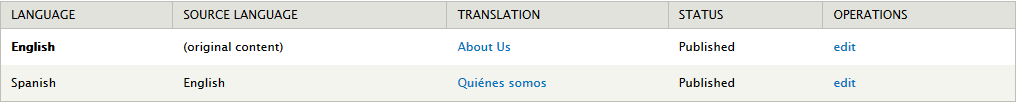
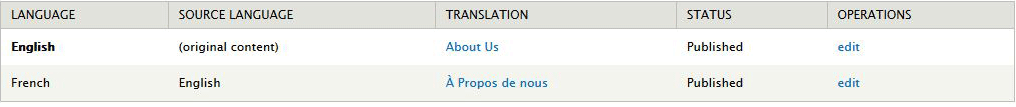
updates

diff --git a/sites/all/themes/pacechem/css/pacechem.css b/sites/all/themes/pacechem/css/pacechem.css
@@ -10,11 +10,12 @@ body{ color:#3c3c3c; font-size:62.5%; background:url(../images/tile_bg.png) cent
 #main > .inner{ padding-top:37px}
 #content{ padding:0 0 70px}
 .content_two #content,
-.content_two.content_three #content_two{ padding-bottom:25px}
-#content_two, #content_three{ padding:25px 0}
-#content_two{ background:rgba(224,224,224,0.4)}
+.content_two.content_three #content_two,
+.content_two.content_three.content_four #content_three{ padding-bottom:25px}
+#content_two, #content_three, #content_four{ padding:25px 0}
+#content_two, #content_four{ background:rgba(224,224,224,0.4)}
 .content_two #content_two,
-#content_three{ padding-bottom:70px}
+#content_three, #content_four{ padding-bottom:70px}
 
 .one-sidebar.sidebar-first #content{ float:right; width:62%; }
 .one-sidebar.sidebar-first .region-sidebar-first{ float:left; width:37%; margin-top:5px }
@@ -43,9 +44,9 @@ body{ color:#3c3c3c; font-size:62.5%; background:url(../images/tile_bg.png) cent
 #language_toggle ul, #language_toggle li{ margin:0; padding:0; list-style:none; font-size:1em; line-height:40px}
 #language_toggle ul li a{ font-size:1.8em; text-decoration:none; position:relative; display:block; color:#fff; padding-right:27px; }
 #language_toggle ul li a:hover{ color:#3f9cda}
-#language_toggle ul li a:after{ display:block; content:''; position:absolute; top:0; right:0; background:url(../images/sprite.png); width:18px; height:20px; top:14px; }
+#language_toggle ul li a:after{ display:block; content:''; position:absolute; top:0; right:0; background:url(../images/sprite.png); width:18px; height:14px; top:14px; }
 #language_toggle ul li.fr a:after{ background-position:-80px 0; }
-#language_toggle ul li.en a:after{ background-position:-80px -20px; }
+#language_toggle ul li.en a:after{ background-position:-80px -40px; }
 .i18n-en #language_toggle ul li.en,
 .i18n-fr #language_toggle ul li.fr{ display:none}
 
@@ -67,7 +68,7 @@ body{ color:#3c3c3c; font-size:62.5%; background:url(../images/tile_bg.png) cent
 .forgot-open #forgot-password{ top:0; opacity:1}
 .login h2{ font-size:2.2em; margin:0 0 15px; line-height:1}
 .login p{ font-family:'helvmc'; font-size:1.5em; line-height:1.3em; margin-bottom:20px}
-.login a:hover{ color:#c81e1e; text-decoration:underline}
+.login a:hover{ color:#3F9CDA; text-decoration:underline}
 .login .form-item{ margin:0 0 8px}
 .login .form-item.form-type-password,
 #fogot-password .form-item.form-type-textfield{ margin-bottom:15px}
@@ -91,6 +92,7 @@ body{ color:#3c3c3c; font-size:62.5%; background:url(../images/tile_bg.png) cent
 .contact-details, .address-details{ font-family:'helvmc'}
 .contact-details p{ font-size:1.55em}
 .contact-details .label{ width:65px; display:inline-block}
+.i18n-fr .contact-details .label{ width:83px}
 #header .contact-details{ position:absolute; right:0; color:#787878; margin-top:25px}
 
 #header-image{ background:#1e1e1e center 0; background-size:cover; }
@@ -146,7 +148,7 @@ body{ color:#3c3c3c; font-size:62.5%; background:url(../images/tile_bg.png) cent
 .sidebar ul.menu{font-family:'helvbdc'; font-size:2.2em; line-height:1}
 .sidebar ul.menu li{ margin-bottom:20px}
 .sidebar ul.menu li a{ color:#010101; text-decoration:none}
-.sidebar ul.menu li a:hover{ color:#c81e1e}
+.sidebar ul.menu li a:hover{ color:#3f9cda}
 .sidebar ul.menu li ul{ font-size:.9em; line-height:1.45; margin-top:4px}
 .sidebar ul.menu li ul li{ margin-bottom:0}
 .sidebar ul.menu li ul li a{ color:#787878}
@@ -213,7 +215,8 @@ input, textarea, select{ font-size:1.5em; border-radius:0}
 .form-item label{ margin:0 0 5px; font-size:2em; font-family:'helvbdc'; line-height:1; font-weight:normal}
 .form-item input[type="text"],
 .form-item input[type="password"]{ width:100%; border:none; padding:3px 5px}
-.form-actions input[type="submit"]{ font-family:'helvbdc'; background:none; border:2px solid #a32439; border-radius:5px; padding:2px 15px; font-size:1.8em; cursor:pointer; color:#a32439; }
+.form-actions input[type="submit"]{ font-family:'helvbdc'; background:none; border:2px solid #005b9a; border-radius:5px; padding:2px 15px; font-size:1.8em; cursor:pointer; color:#005b9a; }
+.form-actions input[type="submit"]:hover{ background:#d6e3ed; background:rgba(0,91,154,.15);}
 #main .form-item input[type="text"], 
 #main .form-item input[type="password"]{ border:1px solid #3C3C3C}
 #main fieldset{ border:none}
@@ -268,7 +271,7 @@ ol.search-results li{ margin-left:0; padding-left:0}
 /* BUTTONS
 ----------------------------------*/
 a.btn{ font-family:'helvbdc'; background:none; border:2px solid #005b9a; border-radius:5px; padding:2px 15px; font-size:1.8em; cursor:pointer; color:#005b9a;}
-a.btn:hover{ color:#005b9a; border-color:#005b9a; text-decoration:none}
+a.btn:hover{ color:#005b9a; border-color:#005b9a; background:#d6e3ed; background:rgba(0,91,154,.15); text-decoration:none}
 p a.btn{ font-size:.9em}
 p.btn{ margin-top:30px}
 
@@ -297,8 +300,8 @@ a.download:before{ content:''; display:block; position:absolute; width:40px; hei
 ----------------------------------*/
 #main #search-form{ margin-bottom:30px}
 #main #search-form input[type="text"]{ max-width:400px}
-#main #search-form input[type="submit"]{ font-family:'helvbdc'; background:none; border:2px solid #a32439; border-radius:5px; padding:2px 15px; font-size:1.8em; cursor:pointer; color:#a32439;}
-#main #search-form input[type="submit"]:hover{ color:#4f121c; border-color:#4f121c; text-decoration:none}
+#main #search-form input[type="submit"]{ font-family:'helvbdc'; background:none; border:2px solid #005b9a; border-radius:5px; padding:2px 15px; font-size:1.8em; cursor:pointer; color:#005b9a;}
+#main #search-form input[type="submit"]:hover{ background:#d6e3ed; background:rgba(0,91,154,.15);}
 #main #search-form .container-inline div, 
 #main #search-form .container-inline label{ display:block}
 .search-info{ display:none}
@@ -386,11 +389,12 @@ table.draggable{ margin:10px 0; font-size:2em}
 .node-career a.top{ position:absolute; right:0; top:5px}
 
 
-/* DISTRIBUTORS
+/* LINKS
 ----------------------------------*/
-.node-distributor h3{ margin-bottom:0}
-.node-distributor .field-name-body p:last-child{ margin-bottom:10px}
-.node-distributor .field-name-field-located-in .field-items{ font-family:'helvbdc'}
+.node-link h3{ margin-bottom:8px}
+
+#block-views-links-order-water h2,
+#block-views-links-order-horticulture h2{ font-size:2em; margin:30px 0 0}
 
 
 /* CONTACT
@@ -399,11 +403,13 @@ table.draggable{ margin:10px 0; font-size:2em}
 .node-36 .field-name-body ul li{ padding:0; margin:0; list-style:none}
 
 #block-views-contact-order-industrial h2,
-#block-views-contact-order-horticulture h2{ font-size:2em; margin:30px 0 0}
+#block-views-contact-order-horticulture h2,
+#block-views-contact-order-water h2{ font-size:2em; margin:30px 0 0}
 
 .node-staff-member h3{ font-size:2em; margin-bottom:5px}
 .node-staff-member .field-name-field-position,
-.node-staff-member .field-name-field-email{ font-size:2em}
+.node-staff-member .field-name-field-email,
+.node-staff-member .field-name-field-phone{ font-size:2em}
 .node-staff-member .field-name-field-email{ margin:5px 0 0}
 .node-staff-member .field-name-body ul,
 .node-staff-member .field-name-body ul li{ margin:0; padding:0; list-style:none; line-height:1.2em}

diff --git a/sites/all/themes/pacechem/css/respond.css b/sites/all/themes/pacechem/css/respond.css
@@ -133,7 +133,7 @@
 #language_toggle ul li a{ padding:0; text-indent:-999em }
 #language_toggle ul li a:after{ width:27px; height:18px; top:11px}
 #language_toggle ul li.fr a:after{ background-position:-180px 0; }
-#language_toggle ul li.en a:after{ background-position:-180px -20px; }
+#language_toggle ul li.en a:after{ background-position:-180px -40px; }
 
 #search_toggle{ left:65%}
 #search_toggle a.icon.search{ text-indent:-999em}

diff --git a/sites/all/themes/pacechem/templates/node.tpl.php b/sites/all/themes/pacechem/templates/node.tpl.php
@@ -25,10 +25,9 @@
 <article id="<?php print $id; ?>" class="node-<?php print $node->nid; ?> <?php print $classes; ?> clearfix"<?php print $attributes; ?>>
   
   <?php 
-  if($node->type=='news' || 
-  	 $node->type=='testimonial' || 
+  if($node->type=='news' ||  
 	 $node->type=='client_area_download' || 
-	 $node->type=='distributor' || 
+	 $node->type=='link' || 
 	 $node->type=='staff_member' || 
 	($node->type=='career' && $view_mode == 'teaser')
 	){
@@ -36,10 +35,10 @@
   }
   ?>  
   
-  <?php if ($unpublished || isset($uri[2]) && $uri[1] != 'client-area' && $uri[2] != 'client-area' && $node->type != 'news' && $node->type != 'career' && $node->type != 'client_area_download' ): ?>
+  <?php if ($unpublished || isset($uri[2]) && $uri[1] != 'client-area' && $uri[2] != 'client-area' && $node->type != 'news' && $node->type != 'link' && $node->type != 'career' && $node->type != 'client_area_download' ): ?>
     <header>
       
-      <?php if( (isset($uri[2]) && $uri[1] != 'es') || (isset($uri[3]) && $uri[1] == 'es') || isset($uri[4]) || $node->type == 'client_area_video'): ?>
+      <?php if( (isset($uri[2]) && $uri[1] != 'fr') || (isset($uri[3]) && $uri[1] == 'fr') || isset($uri[4]) || $node->type == 'client_area_video'): ?>
       	<h2><?php print $node->title; ?></h2>
       <?php endif; ?>
 
@@ -58,6 +57,7 @@
 			print render($content['title_field']); ?>
 			<p class="posted"><?php print t('Posted ') . date('F jS, Y', $node->created) ?></p>
             <?php print render($content['body']) ?>
+            <?php print render($content['field_downloads']) ?>
             
         <?php else: ?>
         	<h2><a href="/news#<?php print $id; ?>"><?php print $node->title; ?></a></h2>
@@ -72,8 +72,9 @@
     	<a class="btn top" href="/careers">Back to Listings</a>
     <?php print render($content);
 	
-	// DISTRIBUTOR
-	elseif($node->type == 'distributor'): ?>
+	// LINK
+	elseif($node->type == 'link'): ?>
+    <h3><?php print $node->field_heading[$lang][0]['safe_value']; ?></h3>
     <h3><a rel="external" href="<?php print $node->field_website_url['und'][0]['safe_value']; ?>"><?php print $node->title; ?></a></h3>
 	<?php print render($content);
 	

diff --git a/sites/all/themes/pacechem/templates/page.tpl.php b/sites/all/themes/pacechem/templates/page.tpl.php
@@ -135,11 +135,11 @@
 		if(isset($node) && $node->type == 'news'){ $node = node_load(9); }
 		if(isset($node) && $node->type == 'testimonial'){ $node = node_load(12); }
 		if(isset($node) && $node->type == 'staff_member'){ $node = node_load(36); }
-		if(isset($node) && $node->type == 'distributor'){ $node = node_load(31); }
+		if(isset($node) && $node->type == 'link'){ $node = node_load(12); }
 		if(isset($node) && $node->type == 'client_area_video'){ $node = node_load(29); } 
 		if(strpos(request_uri(), '/procedures') !== FALSE || strpos(request_uri(), '/procedimientos') !== FALSE){
 			$node = node_load(18); }
-		if(strpos(request_uri(), '/industries') !== FALSE || strpos(request_uri(), '/industrias') !== FALSE){
+		if(strpos(request_uri(), '/technical-bulletins') !== FALSE || strpos(request_uri(), '/bulletins-techniques') !== FALSE){
 			$node = node_load(21);}
 		if((strpos(request_uri(), '/search') !== FALSE)){
 			$node = node_load(4);
@@ -206,6 +206,7 @@
 	// Render the content areas to see if there's anything in them
 	$content_two  = render($page['content_two']);
 	$content_three = render($page['content_three']);
+	$content_four = render($page['content_four']);
   ?>
   <?php if($content_two): ?>
   <div id="content_two" class="width">
@@ -219,6 +220,14 @@
   <div id="content_three" class="width">
   <div class="inner clearfix">
   	<?php print render($page['content_three']); ?>
+  </div>
+  </div>
+  <?php endif; ?>
+  
+  <?php if($content_four): ?>
+  <div id="content_four" class="width">
+  <div class="inner clearfix">
+  	<?php print render($page['content_four']); ?>
   </div>
   </div>
   <?php endif; ?>

diff --git a/sites/all/themes/pacechem/template.php b/sites/all/themes/pacechem/template.php
@@ -49,6 +49,9 @@ function pacechem_preprocess_html(&$variables, $hook) {
 	if (!empty($variables['page']['content_three'])) {
 		$variables['classes_array'][] = 'content_three';
 	}
+	if (!empty($variables['page']['content_four'])) {
+		$variables['classes_array'][] = 'content_four';
+	}
 
   // The body tag's classes are controlled by the $classes_array variable. To
   // remove a class from $classes_array, use array_diff().

diff --git a/sites/all/themes/pacechem/templates/views-view.tpl.php b/sites/all/themes/pacechem/templates/views-view.tpl.php
@@ -35,7 +35,7 @@ switch($view->name){
 	case 'careers':
 		$classes .= ' view-link-list';
 	break;
-	case 'distributors':
+	case 'links':
 	case 'contact':
 		$classes .= ' view-list grid-third';
 	break;

diff --git a/sites/all/themes/pacechem/templates/views-view-unformatted.tpl.php b/sites/all/themes/pacechem/templates/views-view-unformatted.tpl.php
@@ -18,7 +18,7 @@
 			$classes_array[$id] .= ' grid';
 		}
 		break;
-	case 'distributors':
+	case 'links':
 	case 'contact':
 		$classes_array[$id] .= ' grid';
 	break;
